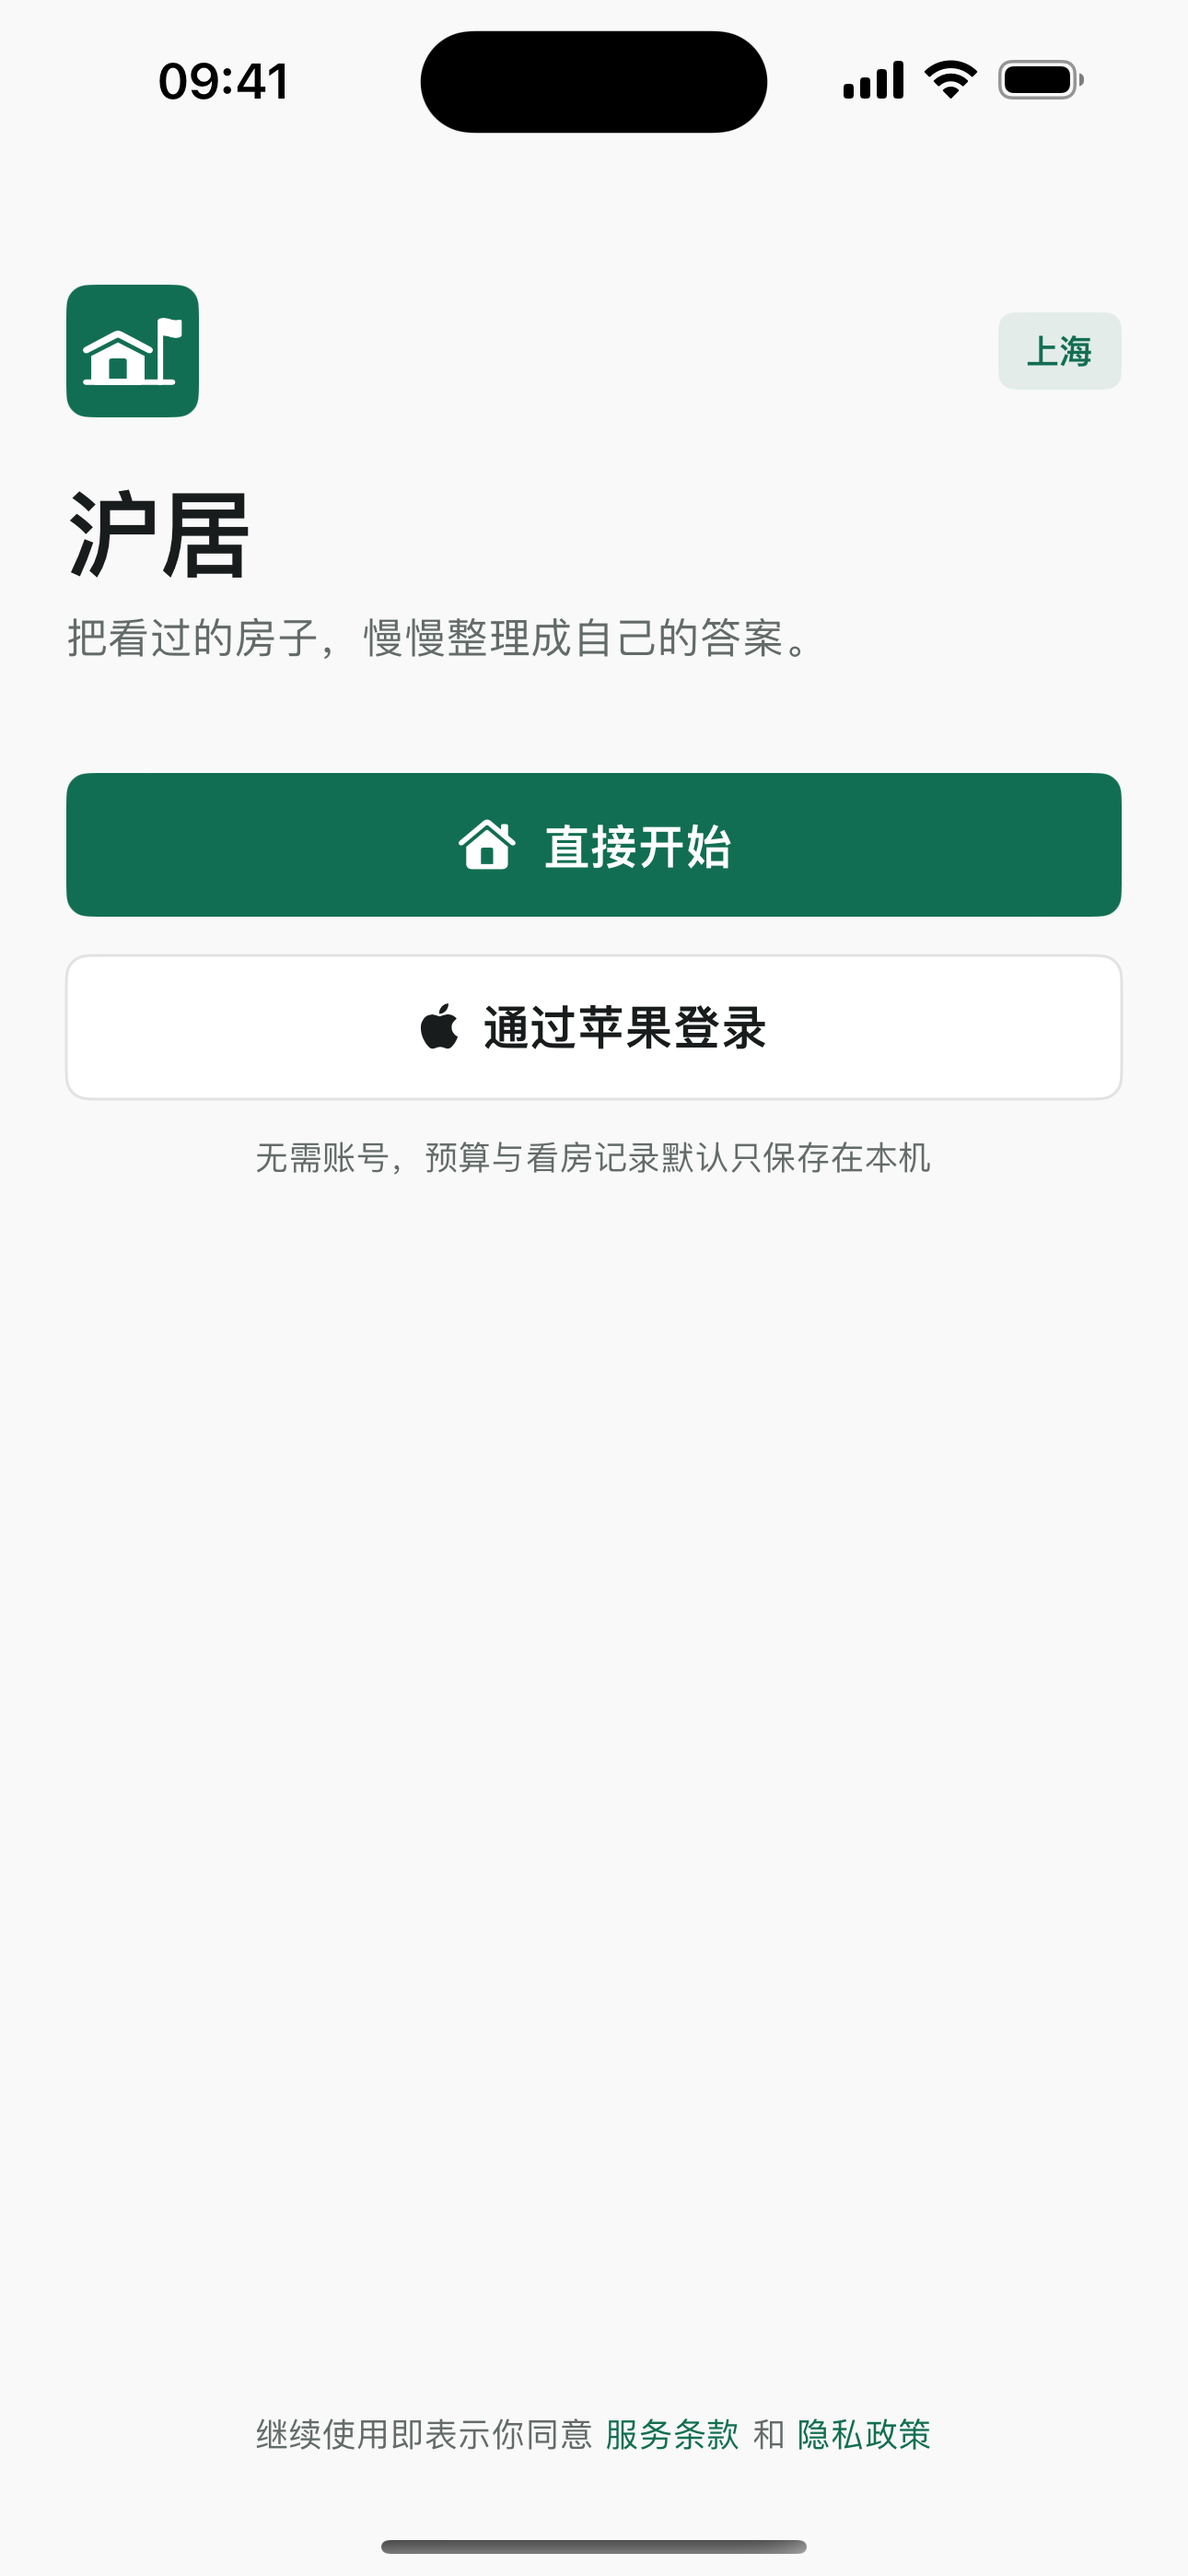
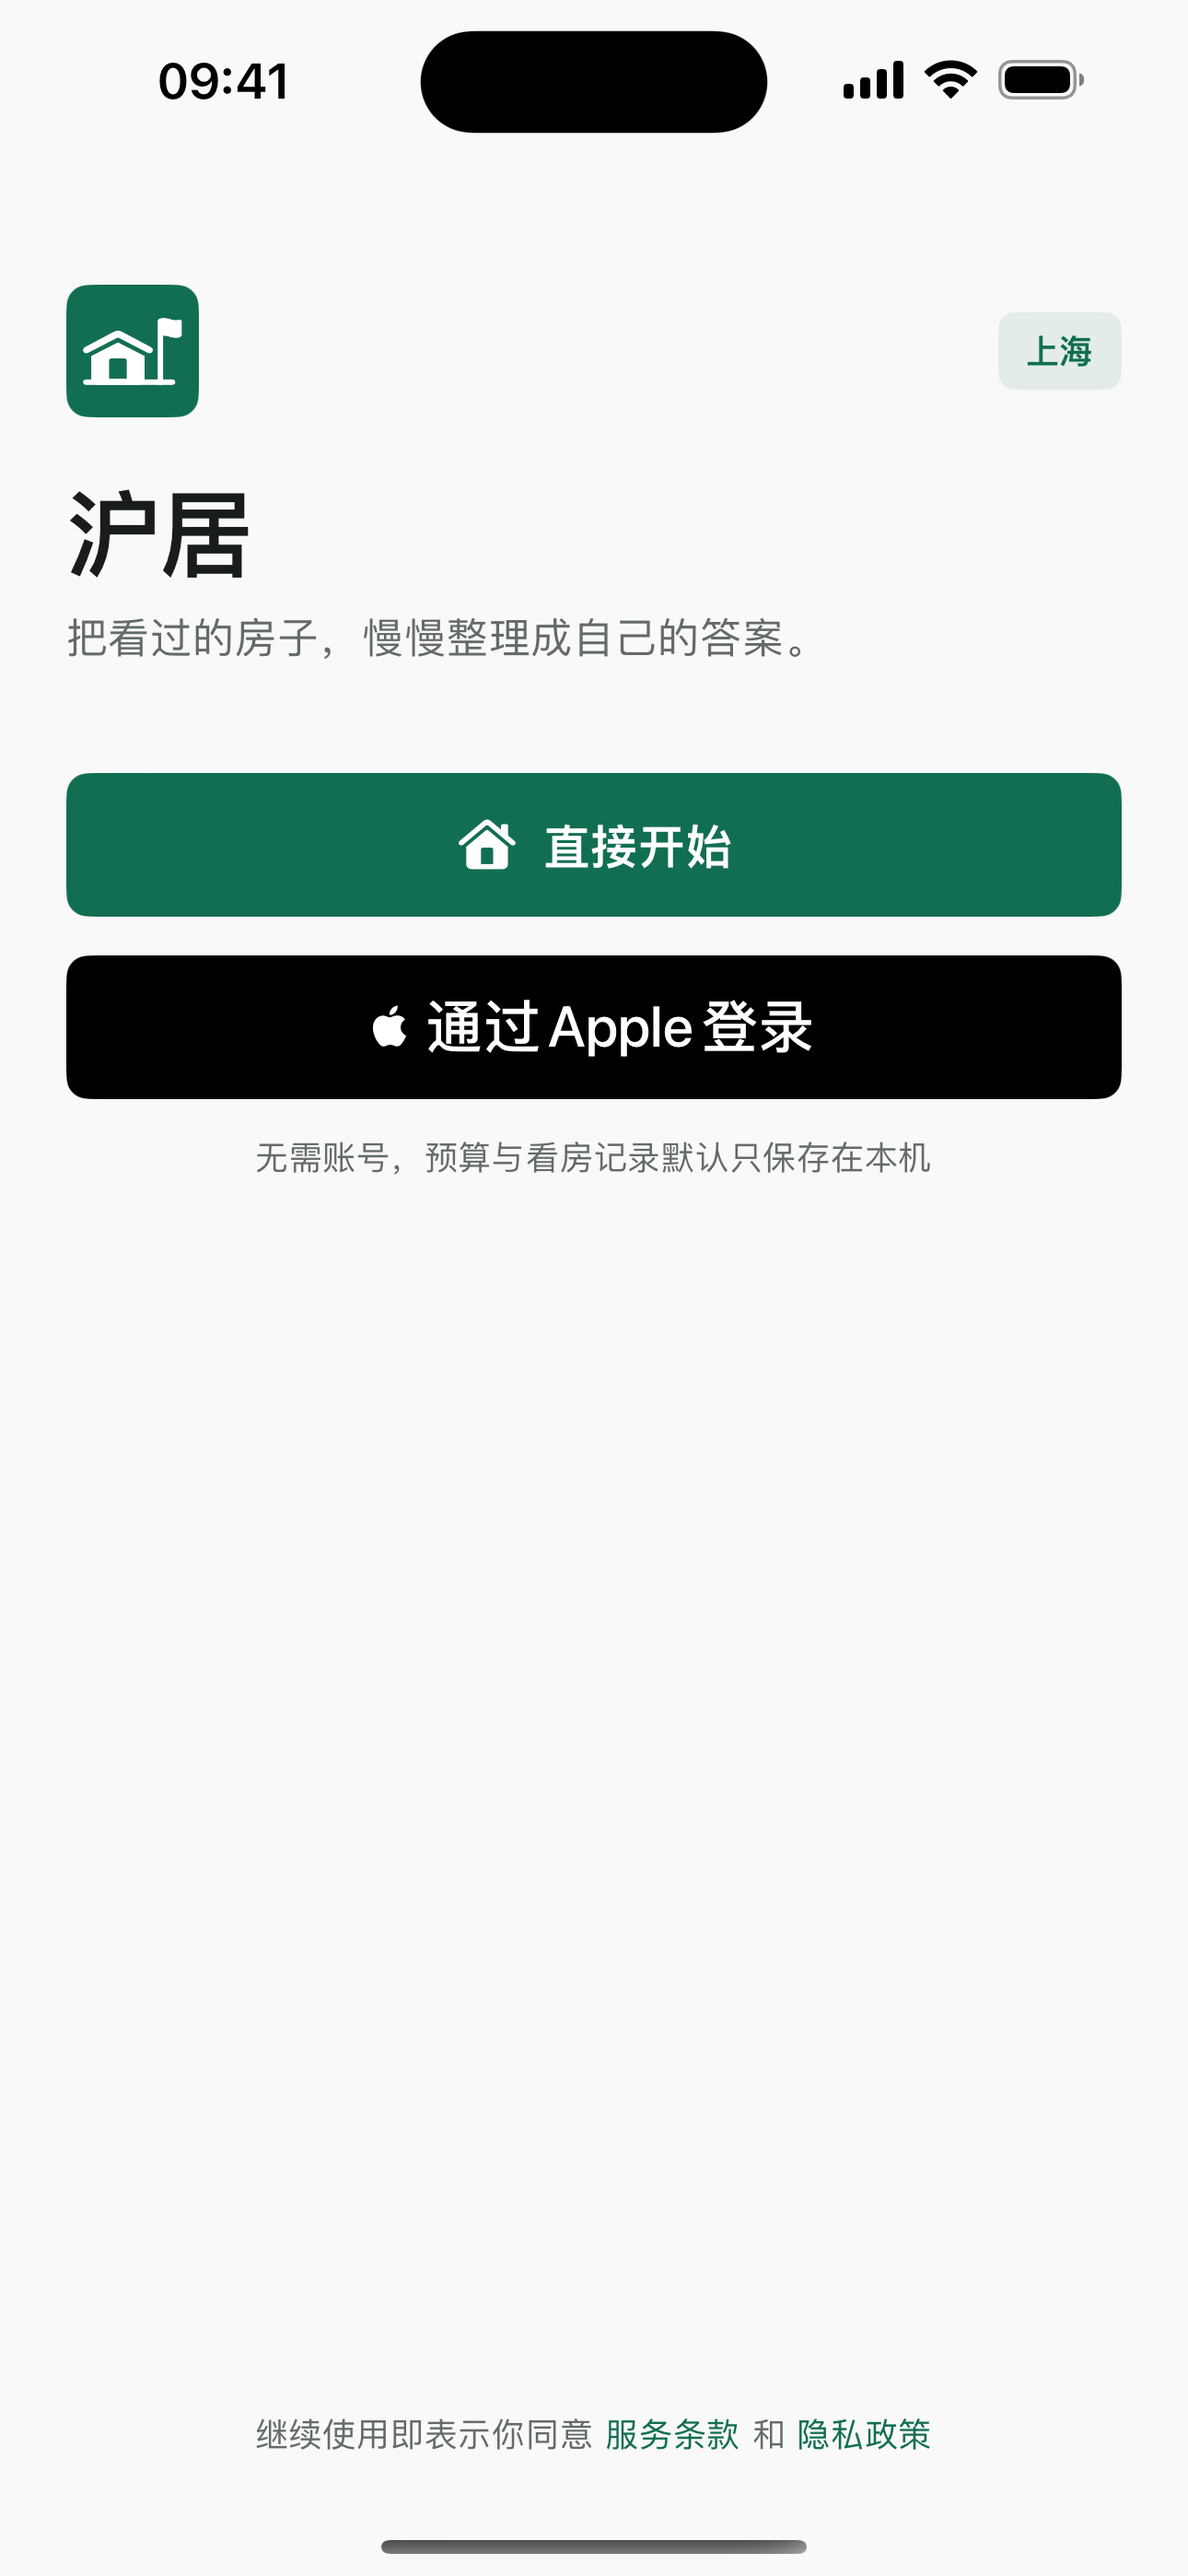
fix: use system Apple sign-in button

Changed region(s): [[0.031, 0.3734, 0.9612, 0.4356]]

diff --git a/HuJu/LoginView.swift b/HuJu/LoginView.swift
@@ -1,3 +1,4 @@
+import AuthenticationServices
 import SwiftUI
 
 struct AppEntryView: View {
@@ -118,21 +119,15 @@ struct LoginView: View {
             }
             .disabled(authentication.isWorking)
 
-            Button {
-                authentication.signInWithApple()
-            } label: {
-                Label("通过苹果登录", systemImage: "apple.logo")
-                    .font(.headline)
-                    .foregroundStyle(HuJuTheme.ink)
-                    .frame(maxWidth: .infinity)
-                    .frame(height: 52)
-                    .background(HuJuTheme.surface)
-                    .clipShape(RoundedRectangle(cornerRadius: 8))
-                    .overlay {
-                        RoundedRectangle(cornerRadius: 8)
-                            .stroke(HuJuTheme.line)
-                    }
+            SignInWithAppleButton(.signIn) { request in
+                authentication.prepareAppleAuthorization(request)
+            } onCompletion: { result in
+                authentication.completeAppleAuthorization(result)
             }
+            .signInWithAppleButtonStyle(.black)
+            .frame(maxWidth: .infinity)
+            .frame(height: 52)
+            .clipShape(RoundedRectangle(cornerRadius: 8))
             .disabled(authentication.isWorking)
 
             Text("无需账号，预算与看房记录默认只保存在本机")

diff --git a/HuJuTests/HuJuTests.swift b/HuJuTests/HuJuTests.swift
@@ -118,6 +118,29 @@ final class HuJuTests: XCTestCase {
     }
 
     @MainActor
+    func testPrepareAppleAuthorizationRequestsRequiredScopes_BitsUT() {
+        let suiteName = "HuJuAppleAuthorizationTests.\(UUID().uuidString)"
+        guard let defaults = UserDefaults(suiteName: suiteName) else {
+            return XCTFail("Unable to create isolated UserDefaults suite")
+        }
+        defer { defaults.removePersistentDomain(forName: suiteName) }
+
+        let store = AuthenticationStore(
+            storage: UserDefaultsAuthSessionStore(defaults: defaults),
+            allowsSimulatorLogin: false
+        )
+        let request = ASAuthorizationAppleIDProvider().createRequest()
+
+        store.prepareAppleAuthorization(request)
+
+        XCTAssertTrue(store.isWorking)
+        XCTAssertEqual(
+            Set(request.requestedScopes ?? []),
+            Set([ASAuthorization.Scope.fullName, .email])
+        )
+    }
+
+    @MainActor
     func testPropertyStore_sampleDataRequiresExplicitAction_BitsUT() {
         let suiteName = "HuJuSampleDataTests.\(UUID().uuidString)"
         guard let defaults = UserDefaults(suiteName: suiteName) else {

diff --git a/HuJu/Authentication.swift b/HuJu/Authentication.swift
@@ -268,16 +268,21 @@ final class AuthenticationStore: NSObject, ObservableObject {
         isWorking = true
     }
 
-    func signInWithApple() {
+    func prepareAppleAuthorization(_ request: ASAuthorizationAppleIDRequest) {
         beginAppleAuthorization()
+        request.requestedScopes = [.fullName, .email]
+    }
+
+    func signInWithApple() {
         if allowsSimulatorLogin {
+            beginAppleAuthorization()
             finishWithSimulatorUser(provider: .apple)
             isWorking = false
             return
         }
 
         let request = ASAuthorizationAppleIDProvider().createRequest()
-        request.requestedScopes = [.fullName, .email]
+        prepareAppleAuthorization(request)
         let controller = ASAuthorizationController(authorizationRequests: [request])
         controller.delegate = self
         controller.presentationContextProvider = self
